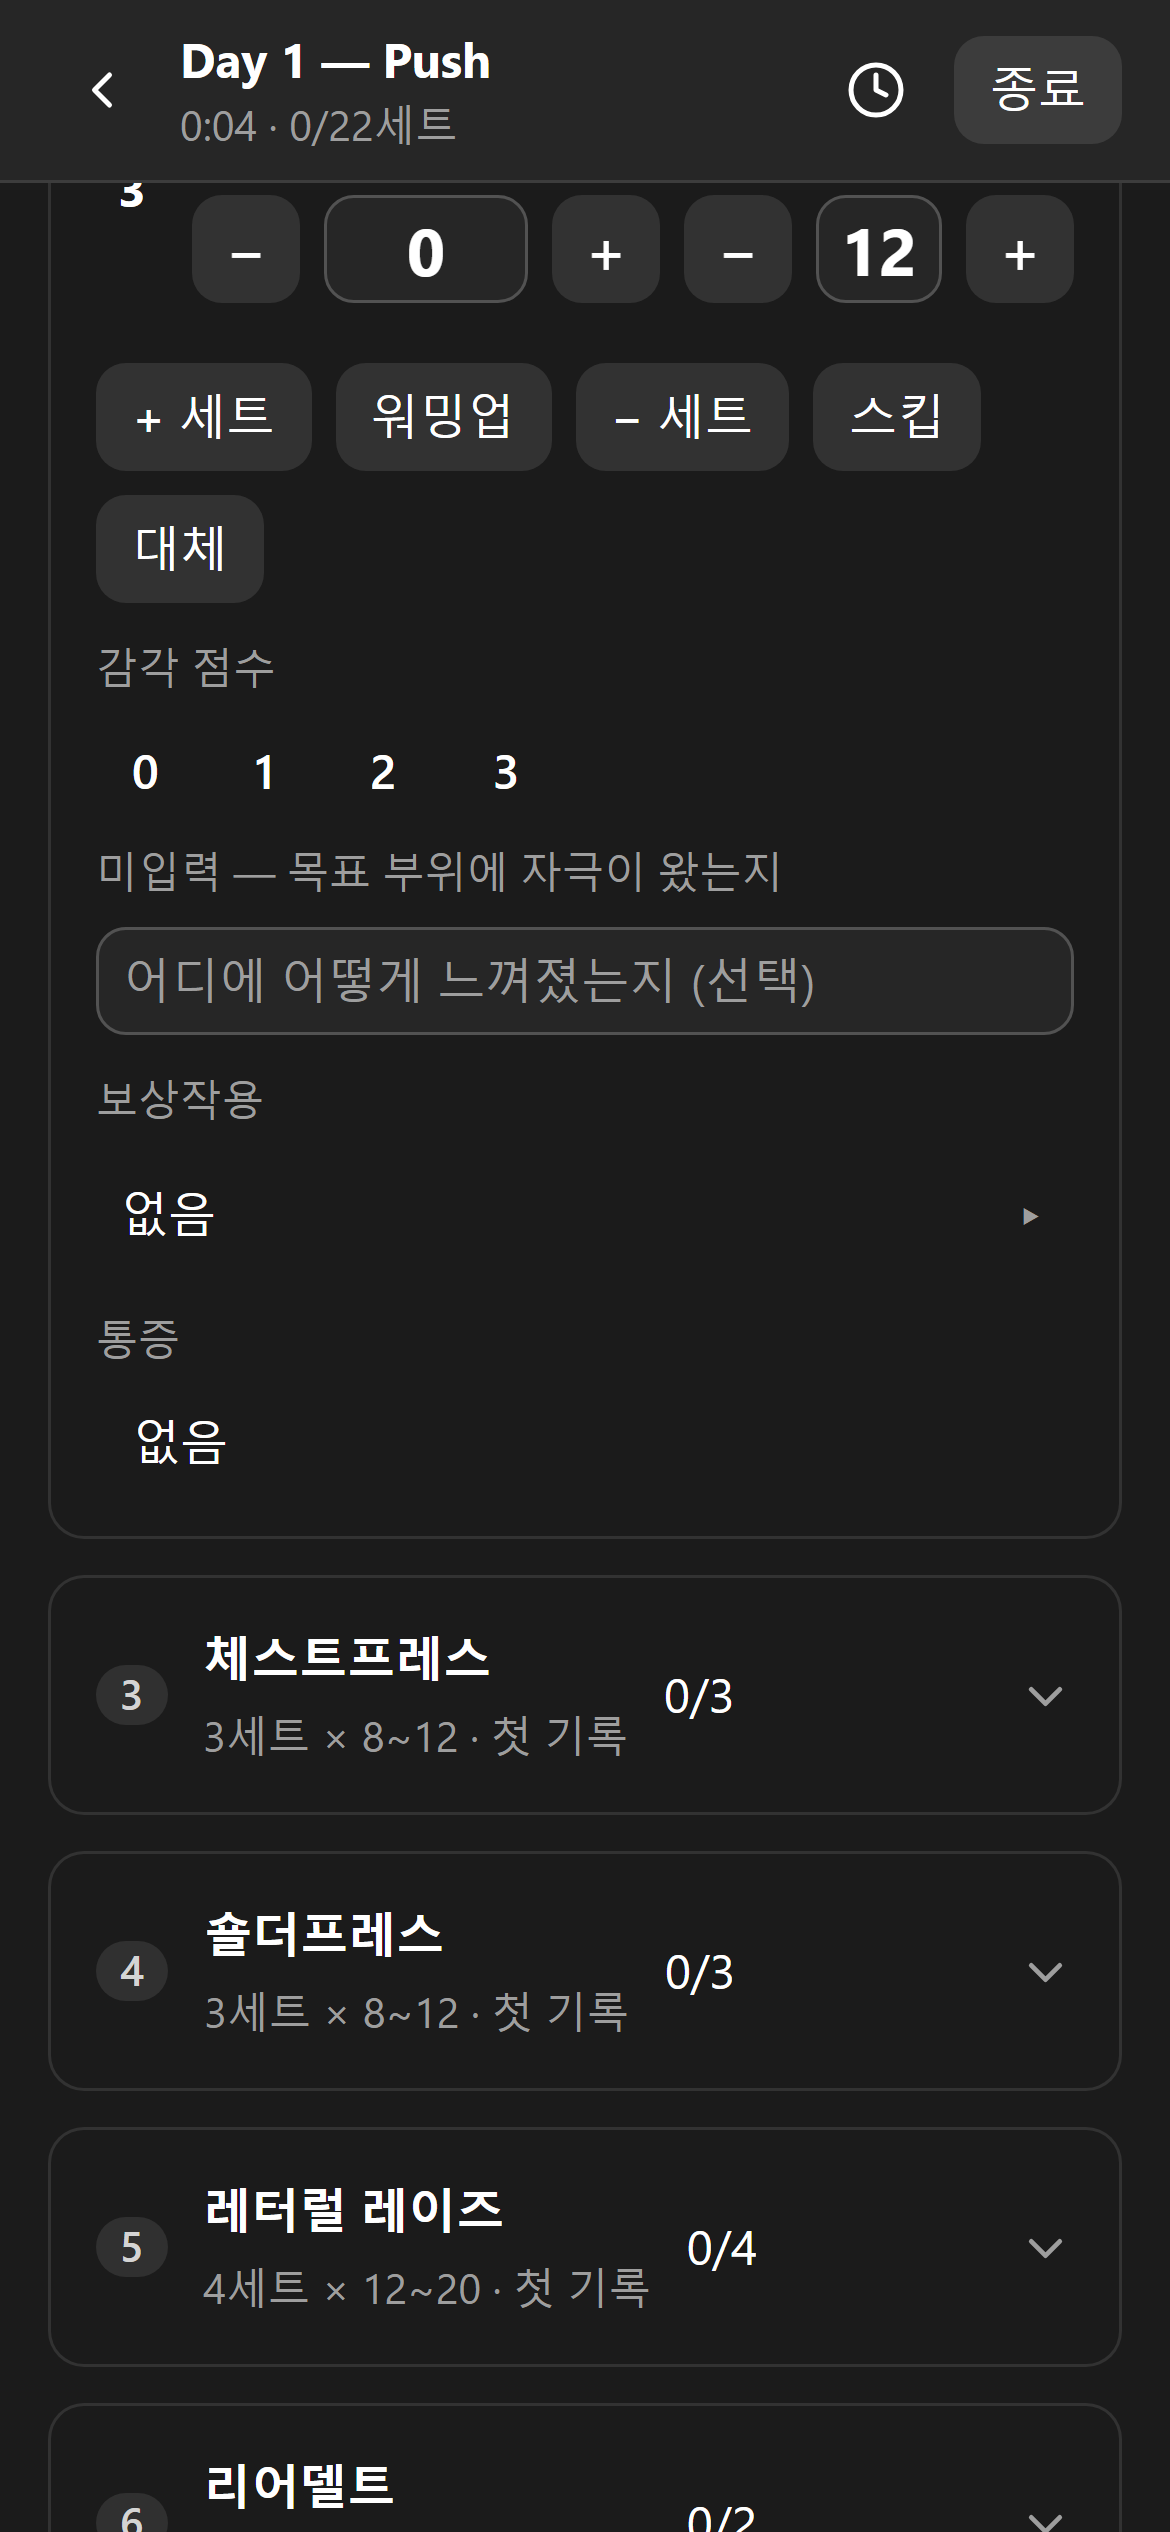
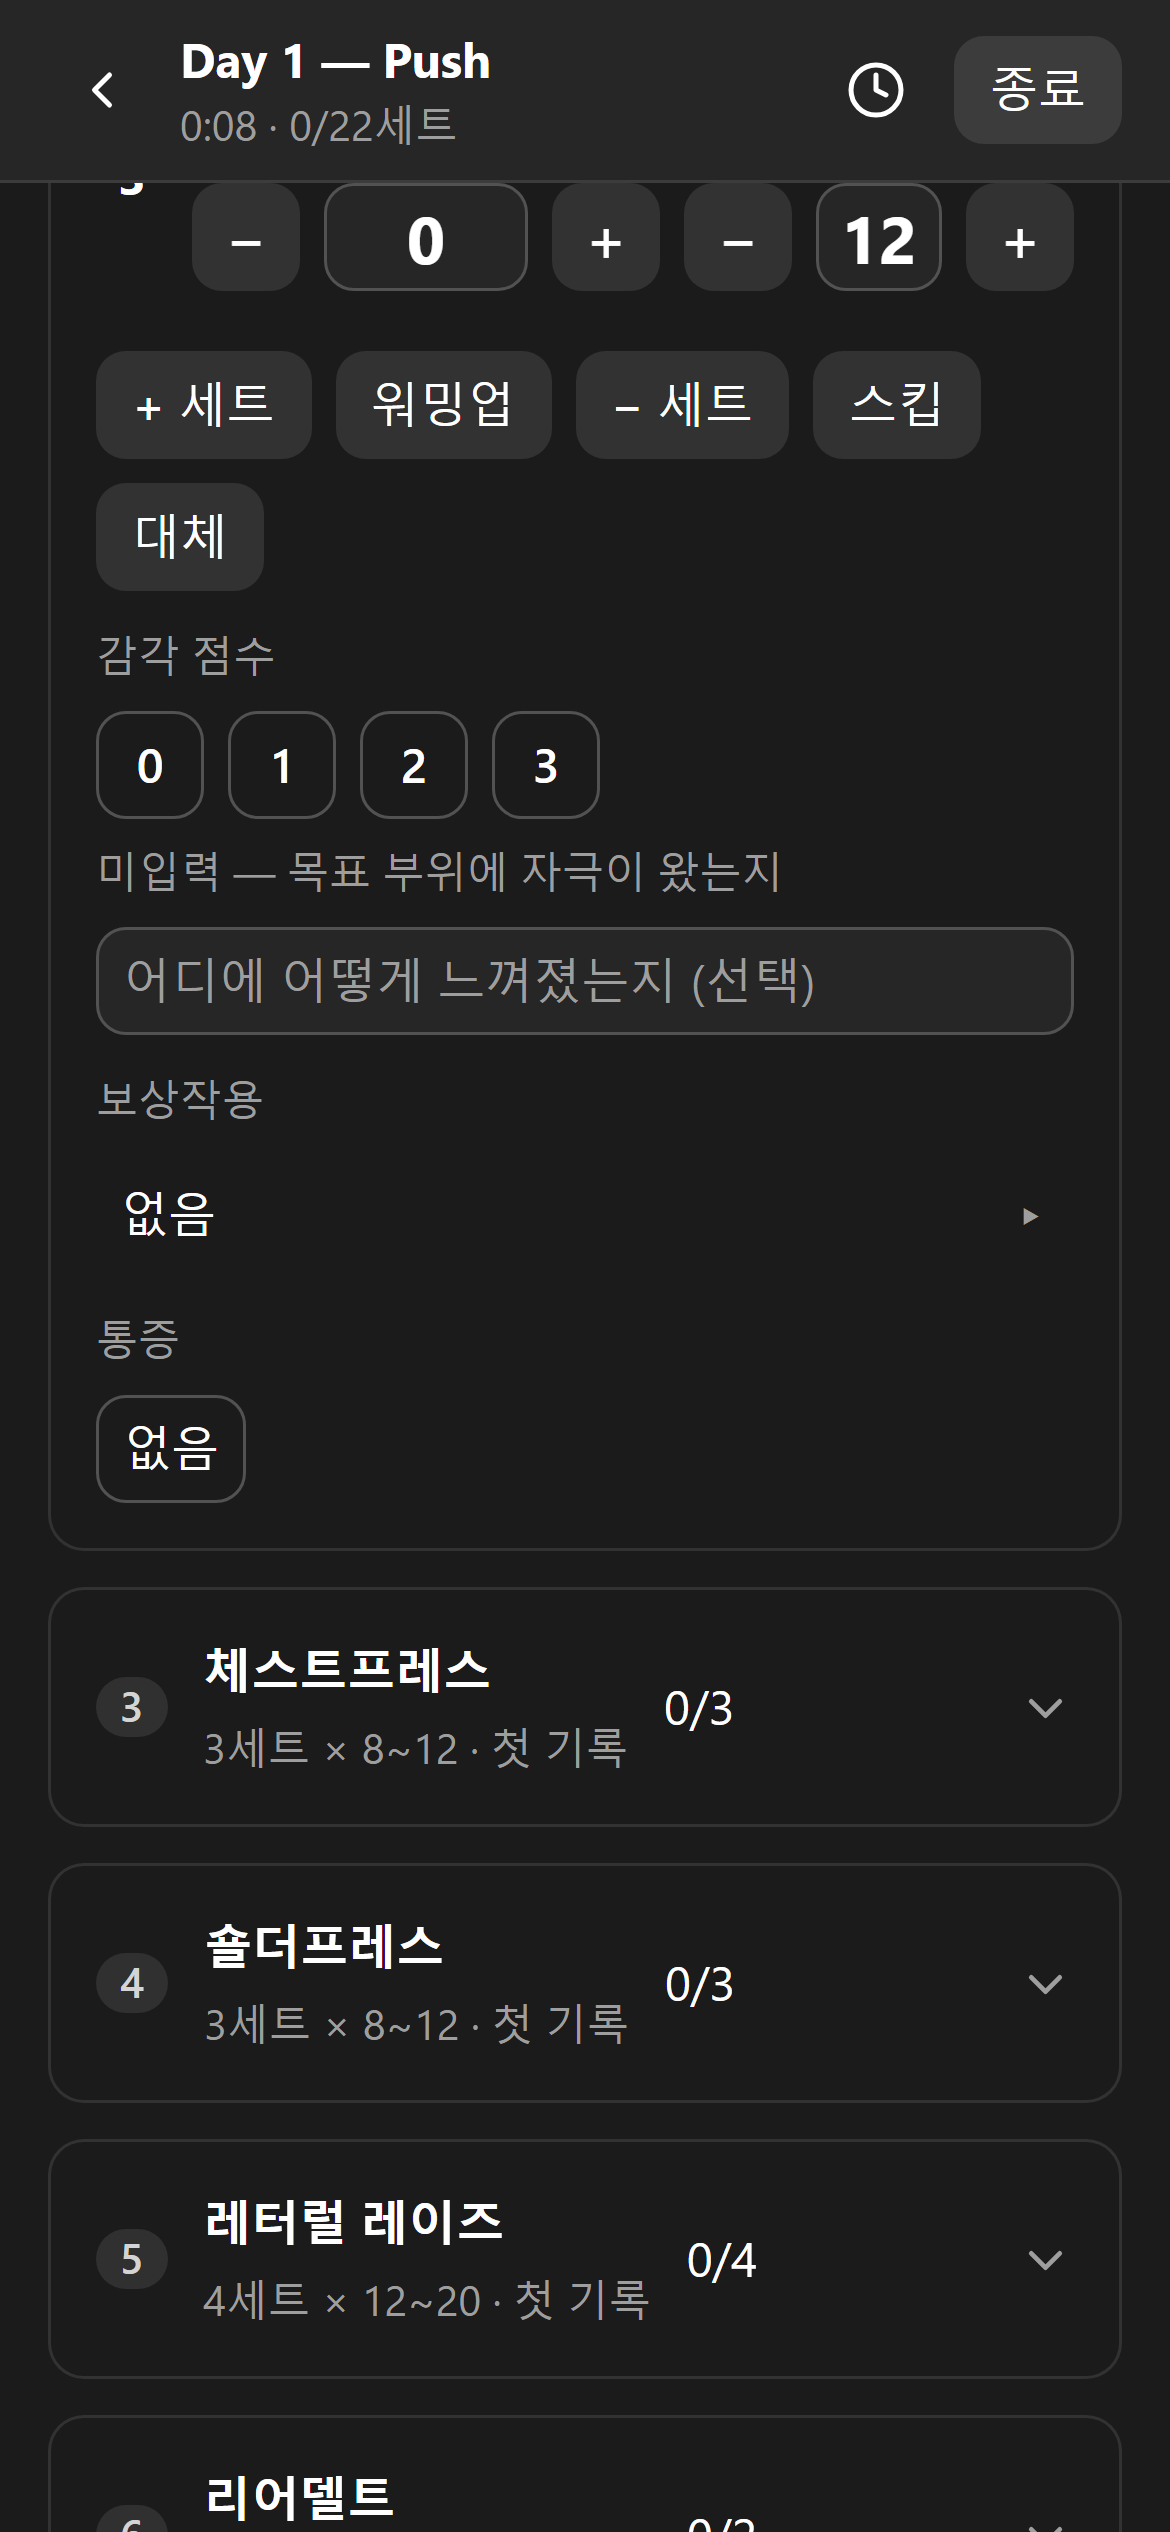
fix(RR7): 팁 글 줄바꿈·토글 버튼 바탕·식단 편집 줄 폭 (PLAN v1.20, 화면 검증 반려)
- 팁 카드 글에 word-break: keep-all, 카드에 테두리(다크에서도 보이게)
- 감각 점수·통증 토글: 안 눌렸을 때도 바탕·테두리, 켜지면 진한 바탕+굵은 글씨, 높이 36
- 식단 편집 줄: 시각 칸 줄어들 수 있게, 삭제 버튼은 내용 폭만
- ui-check: 팁 카드 375 글자 중간 꺾임, 삭제 오른쪽 끝 ≤ 메모 칸 흐름 추가

diff --git a/src/ax/parts.css b/src/ax/parts.css
@@ -285,4 +285,47 @@
   .ax-set-head > * {
     text-align: center;
   }
+
+  /*
+   * 자극 요령 카드(RR7 재검증). 한글은 단어(공백) 사이에서만 줄을 바꾼다 — 375 폭에서 "상/태"로 꺾였다.
+   * 다크에서는 muted 카드가 바탕과 같은 색이라 카드 모양이 안 보여, 라이트와 한 벌로 테두리를 더한다.
+   */
+  .ax-tip {
+    border: 1px solid var(--color-border-emphasized);
+  }
+
+  .ax-tip :is(p, span, div) {
+    word-break: keep-all;
+    overflow-wrap: anywhere;
+  }
+
+  /*
+   * 켜고 끄는 글자 버튼(감각 점수·통증, RR7 재검증). 안 눌렸을 때도 "+ 세트" 알약처럼 바탕과 테두리가 보이고,
+   * 눌리면 더 진한 바탕과 굵은 글씨로 구분한다. 높이는 36px 이상.
+   */
+  .ax-toggle {
+    min-height: var(--spacing-9);
+    min-width: var(--spacing-9);
+    /* 안쪽 여백을 보상작용 줄(ListItem)과 맞춰 두 줄의 글자가 같은 자리에서 시작한다 */
+    padding-inline: var(--spacing-2);
+    background: var(--color-background-muted);
+    border: 1px solid var(--color-border-emphasized);
+  }
+
+  .ax-toggle[aria-pressed='true'] {
+    background: var(--color-accent-muted);
+    border-color: var(--color-accent);
+    font-weight: 700;
+  }
+
+  /* 식단 편집 줄: 시각 칸이 줄어들 수 있어야 삭제 버튼이 카드 안쪽 폭을 넘지 않는다 */
+  .btn-row:has(> .ax-scope) > input[type='time'] {
+    flex: 0 1 8rem;
+    min-width: 0;
+  }
+
+  .btn-row:has(> .ax-scope) > .btn-danger {
+    width: auto;
+    flex: 0 0 auto;
+  }
 }

diff --git a/src/components/ExerciseCard.tsx b/src/components/ExerciseCard.tsx
@@ -357,7 +357,7 @@ export default function ExerciseCard({
                 무엇을 느껴야 하는지 모르면 점수 자체가 무의미해진다.
               */}
               {cueTip && (
-                <Card variant="muted">
+                <Card variant="muted" className="ax-tip">
                   <Text>💡 {cueTip}</Text>
                 </Card>
               )}
@@ -603,6 +603,7 @@ export default function ExerciseCard({
                     {([0, 1, 2, 3] as const).map((score) => (
                       <ToggleButton
                         key={score}
+                        className="ax-toggle"
                         label={String(score)}
                         isPressed={entry.sensoryScore === score}
                         onPressedChange={() => actions.setSensoryScore(entry.recordKey, score)}
@@ -661,6 +662,7 @@ export default function ExerciseCard({
                 </Text>
                 <HStack gap={2}>
                   <ToggleButton
+                    className="ax-toggle"
                     label={hasPain(entry) ? '있음' : '없음'}
                     isPressed={hasPain(entry)}
                     onPressedChange={() =>
